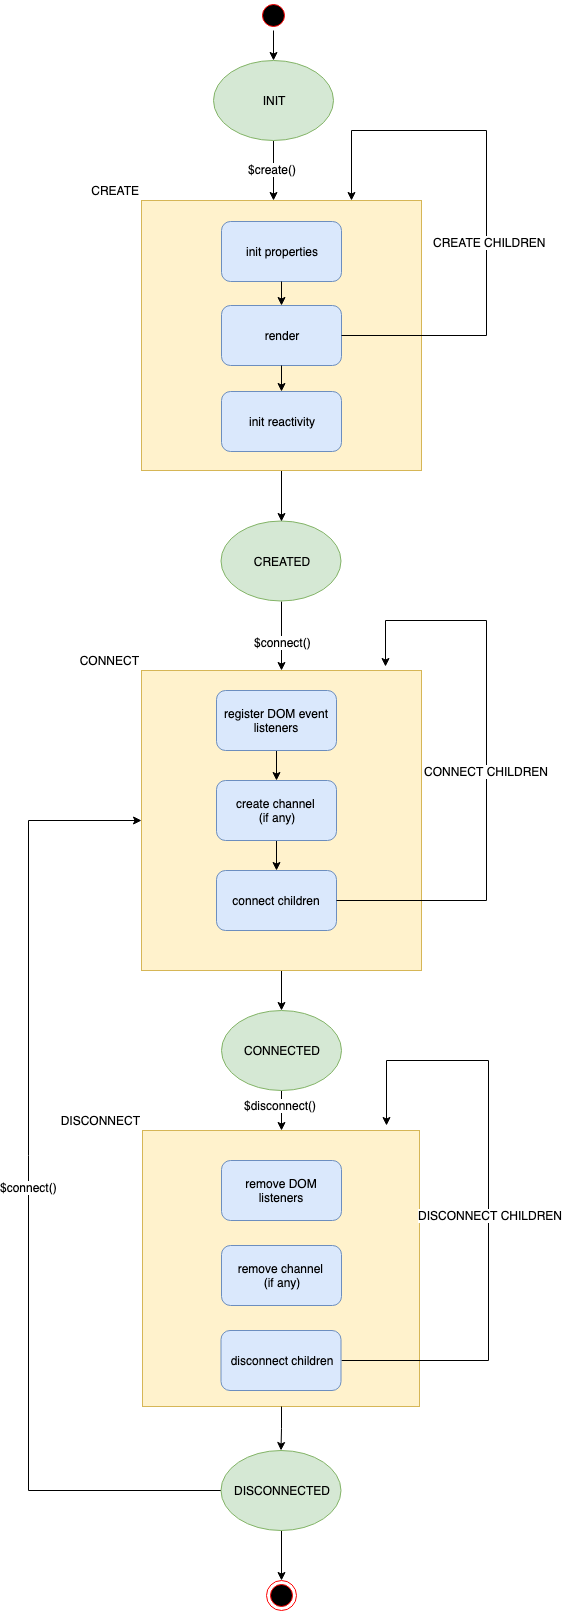
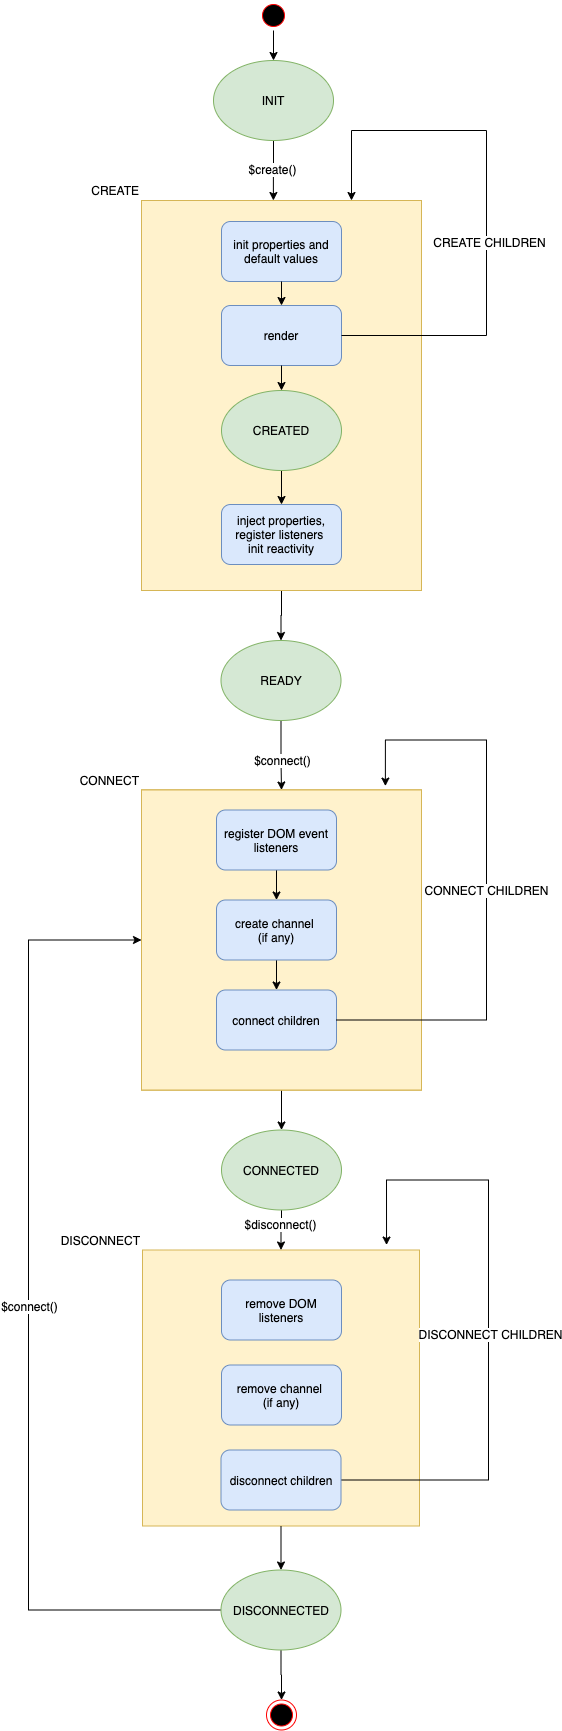
deprecated Qute.register + updated docs

diff --git a/core/runtime/src/index.js b/core/runtime/src/index.js
@@ -134,7 +134,8 @@ Qute.defineMethod = function(name, fn) {
     Rendering.FunComp.prototype[name] = fn;
 }
 
-Qute.register = registerTag; // TODO remove register
+// deprectaed method -> t=TODO remove the register method. Use registerTemplate
+Qute.register = registerTag;
 Qute.registerTemplate = registerTag;
 Qute.template = getTag;
 Qute.snapshotRegistry = snapshotRegistry;

diff --git a/core/compiler/src/jsq.js b/core/compiler/src/jsq.js
@@ -35,7 +35,7 @@ function compileTemplate(compiler, attrs, text) {
     var imports = attrs.import || null;
 
     var compiledFn = compiler.compile(text, splitList(imports));
-    return 'Qute.register("'+name+'", '+compiledFn+', true);';
+    return 'Qute.registerTemplate("'+name+'", '+compiledFn+', true);';
 }
 
 function compileStyle(compiler, attrs, text) {

diff --git a/web/doc/docs/components.md b/web/doc/docs/components.md
@@ -100,6 +100,8 @@ A ViewModel is created using the `Qute()` function.
 * **tagName** - the tag name to use for the component. This argument is **required** even for root components (that are never used by tag name in templates).
 * **definitionOrClass** - an object or a class defining the component. We will focus here on the definition objects. This argument is **optional**. If not specified the **tagName** argument is expected to be a template name and the ViewModel will wrap the template without defining any own data model.
 
+You can also pass a rendering function as the `definitionOrClass` argument. This is a a shortcut to the following object definition: `{render: renderingFunction}`. Anyway, it makes no much sense to create a `ViewModel` defining only a rendering method. If you need this it is better to register the rendering function as a template: `Qute.registerTemplate("tagName", renderingFunction)` which will create a **functional component** which is lighter than a **ViewModel component**.
+
 For more information on how to use classes check the **[Class Syntax](#/model/class)** section.
 
 ### ViewModel Tag Name
@@ -140,7 +142,10 @@ A ViewModel definition is a plain javascript object used to define the ViewModel
 	// you can define lifecycle event handlers
 	created(element) {
 		console.log('component was created');
-	},
+    },
+	ready(element) {
+		console.log('the component element was created and properties / listeners initialized');
+    },
 	connected() {
 		console.log('component was connected');
 	},
@@ -237,10 +242,16 @@ There are three life cycle handlers that can be defined in a definition object:
 
 Called just after the component root element was created (i.e. component was rendered). The component is not yet connected to the DOM.
 
-This handler is called only once in the component life-cycle, after the init method and after attributes are bound to properties.
+This handler is called only once in the component life-cycle, after the init method and before element attributes are injected into component properties.
 
 The **element** argument is the DOM element created by the rendering function.  \
 It is also available at any time as the **`$el`** property of the component instance.
+
+#### `ready(element)`
+
+Called after the component root element is created and after the component properties are initialized from element attributes and all declarative listeners are registered. The component is ready to be connected to the DOM.
+
+As for the `created` handler the `ready` handler is called only once in the component life cycle.
 
 #### `connected()`
 
@@ -258,7 +269,7 @@ This handler can be used to clean up resources setup by the `connected` handler.
 
 ### Methods
 
-Any method specified in a definition object which is not a getter and neither none of `init`, `created`, `connected`, `disconnected` will become a **Component Method**.
+Any method specified in a definition object which is not a getter and neither none of `init`, `created`, `ready`, `connected`, `disconnected` will become a **Component Method**.
 
 Component methods are injected at the ViewModel's prototype level, and can be used from templates.
 

diff --git a/web/doc/docs/model/lifecycle.md b/web/doc/docs/model/lifecycle.md
@@ -1,9 +1,10 @@
 # Component Life Cycle
 
-A Qute Component provides 4 life cycle events that can be used events that can be used to set up and clean up components.
+A Qute Component provides 5 life cycle events that can be used events that can be used to set up and clean up components.
 
 1. **INIT** - the component is initialized. The `init(app)` method is called.
 2. **CREATED** - the component root element was created. The `created(element)` method is called.
+3. **READY** - the component root element was created, properties injected and listeners registered. The `ready(element)` method is called.
 3. **CONNECTED** - the component root element was attached to the DOM. The `connected()` method is called.
 4. **DISCONNECTED** - the component element root was detached from the DOM. The `disconnected` method is called.
 
@@ -15,7 +16,7 @@ A Qute Component provides 4 life cycle events that can be used events that can b
 </div>
 
 
-#### `init(app)`
+### `init(app)`
 
 Called just after the component is instantiated. Should be used to initialize the component and to declare reactive properties.
 
@@ -23,16 +24,22 @@ Reactive properties are declared by returning an object that maps property keys 
 
 The current [application instance](#/app/instance) is passed as an argument to the `init` callback.
 
-#### `created(element)`
+### `created(element)`
 
 Called just after the component root element was created (i.e. component was rendered). The component is not yet connected to the DOM.
 
-This handler is called only once in the component life cycle, after the init method and after attributes are bound to properties.
+This handler is called only once in the component life cycle, after the init method and before the element attributes are injected into component properties and before listeners are registered.
 
 The **element** argument is the DOM element created by the rendering function.  \
 It is also available at any time as the **`$el`** property of the component instance.
 
-#### `connected()`
+### `ready(element)`
+
+Called after the xomponent root element is created (after the `created` hook is called) and after the component properties are injected from element attributes and all declarative listeners are registered. The component is ready to be used (to be connected to the DOM).
+
+The **element** argument is the DOM element created by the rendering function.
+
+### `connected()`
 
 Called just after the component is connected to the DOM (i.e. the component element is attached to the DOM).
 
@@ -40,7 +47,7 @@ This handler may be called several times in the component life cycle, every time
 
 This handler can be used to add event listeners, setup timers etc.
 
-#### `disconnected()`
+### `disconnected()`
 
 Called just after the component is disconnected from the DOM. It may be called several times in the component life cycle.
 

diff --git a/web/doc/docs/advanced/jsq.md b/web/doc/docs/advanced/jsq.md
@@ -168,12 +168,12 @@ function onButtonClick(context, event) {
 
 As we saw, there are two special constructs in a `JSQ` file that are transpiled to javascript:
 
-1. `q:template` - this construct will be tranbspiled into something like `Qute.register("template-name", function($){return  ... }, true);`
+1. `q:template` - this construct will be tranbspiled into something like `Qute.registerTemplate("template-name", function($){return  ... }, true);`
 2. `q:style` - this construct will be transpiled into something like `Qute.css("q:style content ...");`
 
 This is why you mmust always **import Qute** at the top of the `JSQ` file.
 
-The `Qute.register` is registering the template in a global template registry.
+The `Qute.registerTemplate` is registering the template in a global template registry.
 
 The `Qute.css` is registering the style rules so that it will be inserted in the head of the HTML page using the component.
 

diff --git a/web/doc/docs/advanced/api.md b/web/doc/docs/advanced/api.md
@@ -40,7 +40,7 @@ If a `<style id='--qute-inline-styles'>` already exists in the page then it will
 
 Usefull to define CSS rules directly in component files.
 
-### `Qute.register(tag, templateFn, isCompiled)`
+### `Qute.registerTemplate(tag, templateFn, isCompiled)`
 
 Register a template function given its (tag) name.
 
